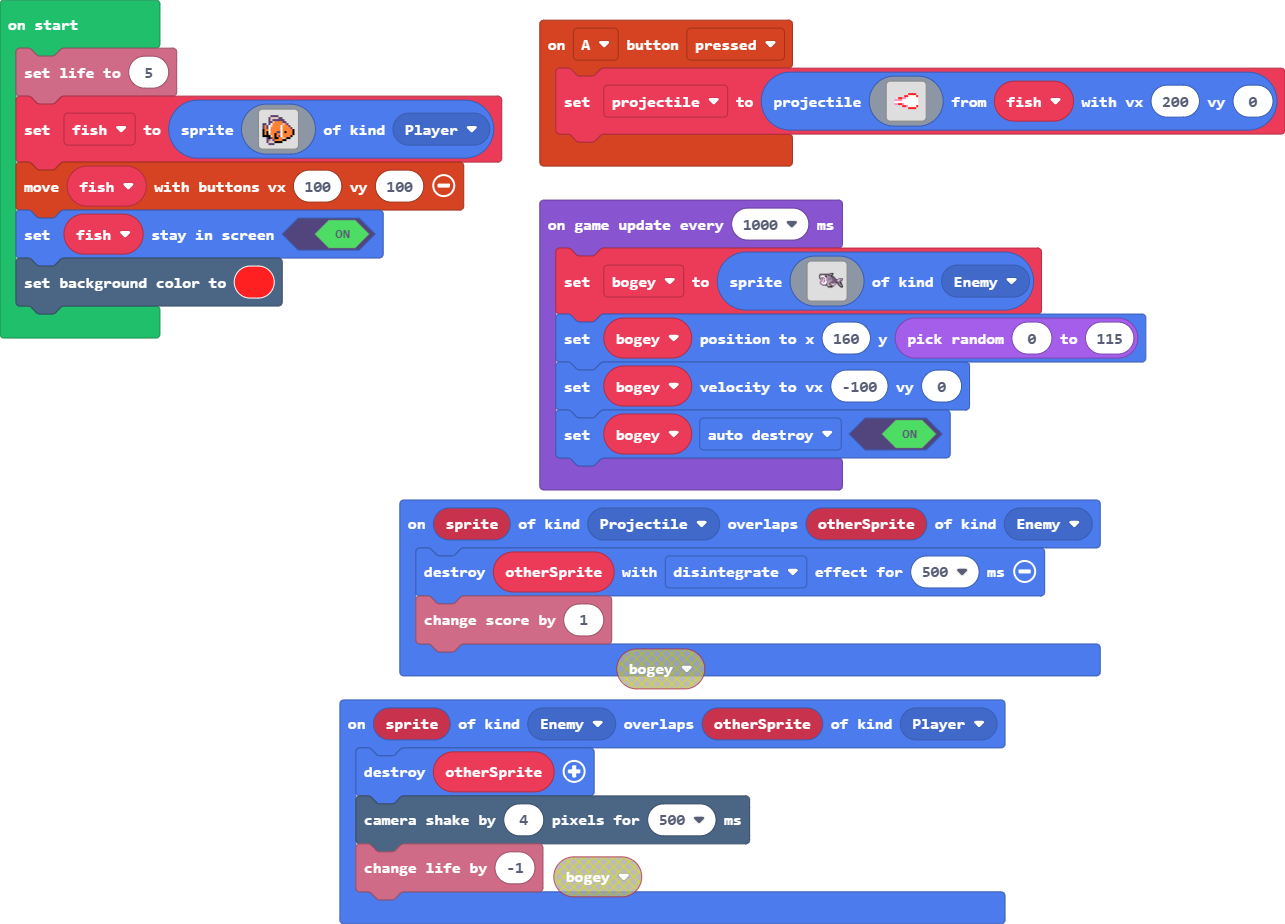
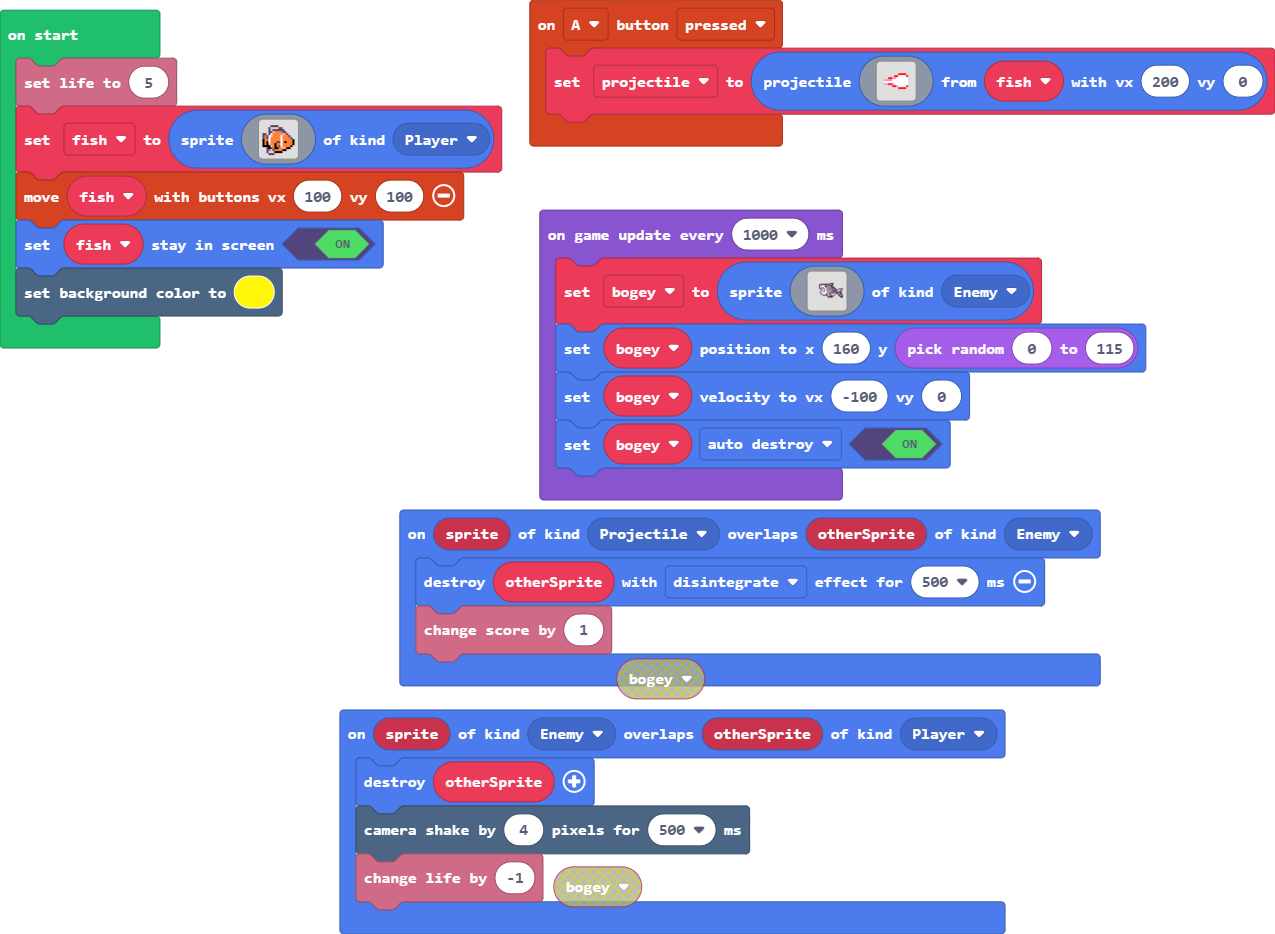
Background yellow

Changed region(s): [[0.2447, 0.2121, 0.9176, 1.0], [0.0, 0.0, 1.0, 0.3939], [0.7647, 0.9697, 0.7953, 1.0]]

diff --git a/main.ts b/main.ts
@@ -51,7 +51,7 @@ fish = sprites.create(img`
     `, SpriteKind.Player)
 controller.moveSprite(fish, 100, 100)
 fish.setStayInScreen(true)
-scene.setBackgroundColor(2)
+scene.setBackgroundColor(5)
 game.onUpdateInterval(1000, function () {
     bogey = sprites.create(img`
         ....................ccfff...........
